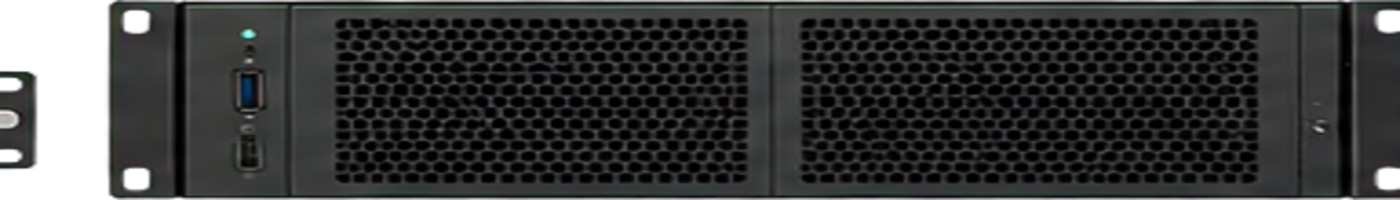
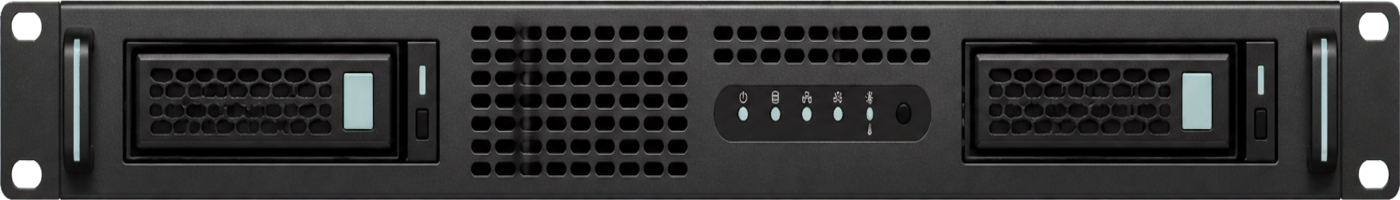
Add UniFi rack profiles and link inventory views

diff --git a/public/app.js b/public/app.js
@@ -14,7 +14,7 @@ const relativeTime = (date) => { const minutes = Math.max(1, Math.round((Date.no
 function toast(message) { const node = $('#toast'); node.textContent = message; node.classList.add('show'); setTimeout(() => node.classList.remove('show'), 2500); }
 function deviceHealth(device) { return ['online', 'degraded', 'offline'].includes(device.healthStatus) ? device.healthStatus : 'unknown'; }
 function serviceSummary(device) { const services = (snapshot.services || []).filter((service) => service.deviceId === device.id && service.status !== 'ignored'); if (!services.length) return 'No services recorded'; const ports = [...new Set(services.map((service) => Number(service.port)).filter(Number.isInteger))].sort((a, b) => a - b); return `${services.length} service${services.length === 1 ? '' : 's'} · ${ports.slice(0, 3).join(', ')}${ports.length > 3 ? '…' : ''}`; }
-const PROFILE_ASSETS = { 'generic-1u': 'rack-generic-1u.png', 'dell-server-1u': 'rack-dell-1u.png', 'hpe-server-1u': 'rack-hpe-1u.png', 'lenovo-server-1u': 'rack-lenovo-1u.png', 'generic-2u': 'rack-generic-2u.png', 'unifi-switch-24': 'rack-unifi-switch-24.png', 'cisco-switch-24': 'rack-cisco-switch-24.png', 'switch-24': 'rack-switch-24.png', 'switch-48': 'rack-switch-48.png', router: 'rack-router.png', 'mikrotik-router': 'rack-mikrotik-router.png', 'nas-2u': 'rack-nas-2u.png', 'synology-nas-2u': 'rack-synology-nas-2u.png', 'ups-2u': 'rack-ups-2u.png', 'apc-ups-2u': 'rack-apc-ups-2u.png', 'patch-panel-24': 'patch-panel-24.png', 'patch-panel-48': 'patch-panel-48.png', 'appliance-1u': 'rack-appliance-1u.png', 'server-1u': 'rack-generic-1u.png', 'server-2u': 'rack-generic-2u.png', firewall: 'rack-router.png', nas: 'rack-nas-2u.png', appliance: 'rack-appliance-1u.png', server: 'rack-generic-1u.png', switch: 'rack-switch-24.png', ups: 'rack-ups-2u.png', 'patch-panel': 'patch-panel-24.png', other: 'rack-appliance-1u.png' };
+const PROFILE_ASSETS = { 'generic-1u': 'rack-generic-1u.png', 'dell-server-1u': 'rack-dell-1u.png', 'hpe-server-1u': 'rack-hpe-1u.png', 'lenovo-server-1u': 'rack-lenovo-1u.png', 'generic-2u': 'rack-generic-2u.png', 'unifi-switch-24': 'rack-unifi-switch-24.png', 'unifi-switch-48': 'rack-unifi-switch-48.png', 'unifi-udm-pro': 'rack-unifi-udm-pro.png', 'unifi-uxg-pro': 'rack-unifi-uxg-pro.png', 'cisco-switch-24': 'rack-cisco-switch-24.png', 'switch-24': 'rack-switch-24.png', 'switch-48': 'rack-switch-48.png', router: 'rack-router.png', 'mikrotik-router': 'rack-mikrotik-router.png', 'nas-2u': 'rack-nas-2u.png', 'synology-nas-2u': 'rack-synology-nas-2u.png', 'ups-2u': 'rack-ups-2u.png', 'apc-ups-2u': 'rack-apc-ups-2u.png', 'patch-panel-24': 'patch-panel-24.png', 'patch-panel-48': 'patch-panel-48.png', 'appliance-1u': 'rack-appliance-1u.png', 'server-1u': 'rack-generic-1u.png', 'server-2u': 'rack-generic-2u.png', firewall: 'rack-router.png', nas: 'rack-nas-2u.png', appliance: 'rack-appliance-1u.png', server: 'rack-generic-1u.png', switch: 'rack-switch-24.png', ups: 'rack-ups-2u.png', 'patch-panel': 'patch-panel-24.png', other: 'rack-appliance-1u.png' };
 function profileAsset(device) { const known = PROFILE_ASSETS[device.visualProfile] || PROFILE_ASSETS[device.deviceType]; const profile = known || ((device.role || '').toLowerCase().includes('router') ? 'rack-router.png' : 'rack-generic-1u.png'); return `/assets/${profile}`; }
 function toggleTheme() { const theme = document.documentElement.dataset.theme === 'dark' ? 'light' : 'dark'; document.documentElement.dataset.theme = theme; localStorage.setItem('lantern-theme', theme); $('#theme-toggle').textContent = theme === 'dark' ? '☀' : '☾'; }
 function render() {
@@ -245,14 +245,17 @@ function renderDevices() {
   if (site) { const prior = selectedSite; site.innerHTML = `<option value="all">All sites</option>${snapshot.sites.map((item) => `<option value="${item.id}">${escapeHtml(item.name)}</option>`).join('')}`; site.value = prior; }
   const visible = snapshot.devices.filter((device) => { const rack = snapshot.racks.find((item) => item.id === device.rackId); const rackSite = rack?.siteId || ''; const haystack = `${device.name} ${device.role} ${device.address?.ip || ''} ${device.address?.hostname || ''} ${device.host?.name || ''}`.toLowerCase(); return (type === 'all' || (device.deviceType || 'other') === type) && (selectedSite === 'all' || rackSite === selectedSite) && (!query || haystack.includes(query)); });
   body.innerHTML = visible.length ? visible.map((device) => { const rack = snapshot.racks.find((item) => item.id === device.rackId); const host = snapshot.devices.find((item) => item.id === device.parentDeviceId); const services = snapshot.services.filter((service) => service.deviceId === device.id && service.status !== 'ignored').length; return `<tr><td><button class="device-table-link" data-id="${device.id}"><i class="health-dot ${deviceHealth(device)}"></i><strong>${escapeHtml(device.name)}</strong><small>${escapeHtml(device.role || device.description || 'Unassigned')}</small></button></td><td><span class="device-type-pill">${escapeHtml(device.deviceType || 'other')}</span></td><td>${host ? `<button class="inline-link" data-id="${host.id}">${escapeHtml(host.name)}</button>` : '<span class="muted">Physical host</span>'}</td><td>${device.address ? `<button class="inline-link network-ip-link" data-network-id="${device.address.networkId}">${escapeHtml(device.address.ip)}</button><small>${escapeHtml(device.address.hostname || 'No hostname')}</small>` : '<span class="muted">No IP assigned</span>'}</td><td>${rack ? `<button class="inline-link rack-device-link" data-view-link="racks">${escapeHtml(rack.name)} · U${device.rackUnit || '—'}</button>` : '<span class="muted">Not in rack</span>'}</td><td><span class="health-label"><i class="health-dot ${deviceHealth(device)}"></i>${escapeHtml(deviceHealth(device))}</span><small>${services} service${services === 1 ? '' : 's'}</small></td><td><button class="button secondary edit-device-page" data-id="${device.id}">Edit</button></td></tr>`; }).join('') : '<tr><td colspan="7"><div class="empty">No devices match these filters.</div></td></tr>';
-  setTimeout(() => document.querySelectorAll('#unplaced-devices .unplaced-row').forEach((row) => { const device = snapshot.devices.find((item) => item.id === row.dataset.deviceId); if (['vm', 'container'].includes(device?.deviceType)) row.hidden = true; }), 0);
-  body.querySelectorAll('.device-table-link').forEach((button) => button.addEventListener('click', () => openDevicePageDetail(button.dataset.id))); body.querySelectorAll('.edit-device-page').forEach((button) => button.addEventListener('click', () => openResourceModal('device', snapshot.devices.find((item) => item.id === button.dataset.id)))); body.querySelectorAll('.inline-link[data-id]').forEach((button) => button.addEventListener('click', () => openDevicePageDetail(button.dataset.id))); body.querySelectorAll('.network-ip-link').forEach((button) => button.addEventListener('click', () => { showView('ipam'); selectNetwork(button.dataset.networkId); })); body.querySelectorAll('.rack-device-link').forEach((button) => button.addEventListener('click', () => showView('racks')));
+  setTimeout(updateUnplacedDevices, 0);
+  body.querySelectorAll('.device-table-link').forEach((button) => button.addEventListener('click', () => openDevicePageDetail(button.dataset.id))); body.querySelectorAll('.edit-device-page').forEach((button) => button.addEventListener('click', () => openResourceModal('device', snapshot.devices.find((item) => item.id === button.dataset.id)))); body.querySelectorAll('.inline-link[data-id]').forEach((button) => button.addEventListener('click', () => openDevicePageDetail(button.dataset.id))); body.querySelectorAll('.network-ip-link').forEach((button) => button.addEventListener('click', () => { showView('ipam'); selectNetwork(button.dataset.networkId); })); body.querySelectorAll('.rack-device-link').forEach((button) => button.addEventListener('click', () => focusRack(button.dataset.rackId)));
 }
 function openDevicePageDetail(id) { const device = snapshot.devices.find((item) => item.id === id); const panel = $('#device-page-detail'); if (!device || !panel) return; const children = snapshot.devices.filter((item) => item.parentDeviceId === id); const services = snapshot.services.filter((item) => item.deviceId === id && item.status !== 'ignored'); panel.hidden = false; panel.innerHTML = `<div class="device-detail-heading"><div><p class="eyebrow accent">DEVICE DETAIL</p><h3><i class="health-dot ${deviceHealth(device)}"></i>${escapeHtml(device.name)}</h3><small>${escapeHtml(device.address?.ip || 'No IP')} · ${escapeHtml(device.deviceType || 'other')} · ${escapeHtml(deviceHealth(device))}</small></div><div class="service-actions"><button class="button secondary" id="edit-page-device">Edit</button><button class="text-button" id="close-page-device">Close ×</button></div></div><div class="device-service-list">${children.map((item) => `<div class="device-service-item"><strong>${escapeHtml(item.name)}</strong><small>${escapeHtml(item.deviceType)} · ${escapeHtml(item.address?.ip || 'No IP')}</small></div>`).join('') || '<div class="empty">No hosted VMs or containers.</div>'}${services.map((item) => `<div class="device-service-item"><strong>${escapeHtml(item.icon || '◇')} ${escapeHtml(item.name)}</strong><small>${item.protocol.toUpperCase()} ${item.port} · ${escapeHtml(serviceHealth(item))}</small></div>`).join('')}</div>`; $('#close-page-device').addEventListener('click', () => { panel.hidden = true; }); $('#edit-page-device').addEventListener('click', () => openResourceModal('device', device)); }
+function focusRack(rackId) { showView('racks'); if (rackId) { $('#rack-site-filter').value = 'all'; $('#rack-site-filter').dataset.selected = 'all'; render(); setTimeout(() => document.querySelector(`.rack-face[data-rack-id="${rackId}"]`)?.scrollIntoView({ behavior: 'smooth', block: 'center' }), 0); } }
+function updateUnplacedDevices() { document.querySelectorAll('#unplaced-devices .unplaced-row').forEach((row) => { const device = snapshot.devices.find((item) => item.id === row.dataset.deviceId); if (!device) return; const isVirtual = ['vm', 'container'].includes(device.deviceType); row.draggable = !isVirtual; const place = row.querySelector('.place-device'); if (isVirtual && place) { place.remove(); const button = document.createElement('button'); button.className = 'button secondary view-unplaced-device'; button.textContent = 'View device'; button.addEventListener('click', () => { showView('devices'); openDevicePageDetail(device.id); }); row.appendChild(button); } }); bindRackLinks(); }
+function bindRackLinks() { document.querySelectorAll('#rack-grid .rack-unit.device').forEach((unit) => unit.addEventListener('click', (event) => { if (event.target.closest('button')) return; showView('devices'); openDevicePageDetail(unit.dataset.deviceId); })); document.querySelectorAll('.rack-device-link').forEach((button) => button.addEventListener('click', () => { const rack = snapshot.racks.find((item) => button.textContent.trim().startsWith(item.name)); focusRack(rack?.id); })); }
 function renderOverviewLayout() { const overview = $('#view-overview'); const side = overview?.querySelector('.overview-side'); const activity = $('#changes')?.closest('.activity-panel'); const network = $('#networks')?.closest('.network-panel'); const detail = $('#device-detail'); if (!overview || !side || !activity || !network || !detail) return; const status = document.querySelector('#overview-service-status') || Object.assign(document.createElement('section'), { id: 'overview-service-status', className: 'panel overview-service-status' }); if (!status.parentElement) status.innerHTML = '<div class="panel-heading"><div><p class="eyebrow">SERVICE STATUS</p><h3>Watching services</h3></div><button class="text-button" data-view-link="services">Open Services →</button></div><div id="overview-services-list"></div>'; if (activity.parentElement === side) side.removeChild(activity); side.insertBefore(status, side.firstChild); side.insertBefore(network, status.nextSibling); overview.appendChild(detail); overview.appendChild(activity); }
 function renderOverviewServices() { const target = $('#overview-services-list'); if (!target || !snapshot) return; const services = snapshot.services.filter((item) => item.overviewVisible && item.status !== 'ignored'); target.innerHTML = services.length ? services.map((service) => `<div class="overview-service-row"><span class="service-icon">${escapeHtml(service.icon || '◇')}</span><div><strong>${escapeHtml(service.name)}</strong><small>${escapeHtml(service.deviceName)} · ${service.protocol.toUpperCase()} ${service.port}</small></div><i class="health-dot ${serviceHealth(service)}"></i></div>`).join('') : '<div class="empty">No services selected for the overview.</div>'; }
 function renderServices() { renderServicesLegacy(); document.querySelectorAll('.service-row').forEach((row) => { const edit = row.querySelector('.edit-service'); const service = snapshot.services.find((item) => item.id === edit?.dataset.id); if (!service || row.querySelector('.toggle-overview-service')) return; const button = document.createElement('button'); button.className = 'button secondary toggle-overview-service'; button.textContent = service.overviewVisible ? 'Hide overview' : 'Show overview'; button.addEventListener('click', async () => { const response = await fetch(`/api/services/${service.id}`, { method: 'PATCH', headers: { 'content-type': 'application/json' }, body: JSON.stringify({ name: service.name, deviceId: service.deviceId, port: service.port, protocol: service.protocol, url: service.url || '', description: service.description || '', enabled: service.enabled !== false, overviewVisible: !service.overviewVisible }) }); if (response.ok) { await refresh(); toast(service.overviewVisible ? 'Service shown on overview.' : 'Service hidden from overview.'); } }); row.querySelector('.service-actions')?.prepend(button); }); renderOverviewServices(); }
 function enhanceDeviceEditor(device = null) { const typeSelect = document.querySelector('#resource-fields [name="deviceType"]'); if (!typeSelect) return; [['vm', 'Virtual machine'], ['container', 'Docker container']].forEach(([value, label]) => { if (!typeSelect.querySelector(`option[value="${value}"]`)) typeSelect.insertAdjacentHTML('beforeend', `<option value="${value}">${label}</option>`); }); if (!document.querySelector('#resource-fields [name="parentDeviceId"]')) { const hostOptions = snapshot.devices.filter((item) => item.id !== device?.id && !['vm', 'container'].includes(item.deviceType)).map((item) => `<option value="${item.id}">${escapeHtml(item.name)}</option>`).join(''); typeSelect.closest('.form-label')?.insertAdjacentHTML('afterend', `<label class="form-label">Hosted by<select name="parentDeviceId"><option value="">No host</option>${hostOptions}</select></label>`); } if (device?.parentDeviceId) document.querySelector('#resource-fields [name="parentDeviceId"]').value = device.parentDeviceId; }
-function addCatalogueProfileOptions() { const select = document.querySelector('#resource-fields [name="visualProfile"]'); if (!select) return; const options = [['dell-server-1u', 'Dell-style 1U server'], ['hpe-server-1u', 'HPE-style 1U server'], ['lenovo-server-1u', 'Lenovo-style 1U server'], ['mikrotik-router', 'MikroTik-style router'], ['synology-nas-2u', 'Synology-style 2U NAS'], ['apc-ups-2u', 'APC-style 2U UPS']]; options.forEach(([value, label]) => { if (!select.querySelector(`option[value="${value}"]`)) select.insertAdjacentHTML('beforeend', `<option value="${value}">${label}</option>`); }); }
+function addCatalogueProfileOptions() { const select = document.querySelector('#resource-fields [name="visualProfile"]'); if (!select) return; const options = [['dell-server-1u', 'Dell-style 1U server'], ['hpe-server-1u', 'HPE-style 1U server'], ['lenovo-server-1u', 'Lenovo-style 1U server'], ['unifi-switch-48', 'Ubiquiti UniFi 48-port switch'], ['unifi-udm-pro', 'Ubiquiti UniFi Dream Machine Pro'], ['unifi-uxg-pro', 'Ubiquiti UniFi UXG Pro gateway'], ['mikrotik-router', 'MikroTik-style router'], ['synology-nas-2u', 'Synology-style 2U NAS'], ['apc-ups-2u', 'APC-style 2U UPS']]; options.forEach(([value, label]) => { if (!select.querySelector(`option[value="${value}"]`)) select.insertAdjacentHTML('beforeend', `<option value="${value}">${label}</option>`); }); }
 document.addEventListener('error', (event) => { const image = event.target; if (image?.tagName === 'IMG' && !image.dataset.fallback) { image.dataset.fallback = 'true'; image.src = '/assets/rack-generic-1u.png'; } }, true);
 ensureDevicesView();

diff --git a/src/profiles.js b/src/profiles.js
@@ -5,6 +5,9 @@ export const DEVICE_PROFILES = [
   { id: 'lenovo-server-1u', label: 'Lenovo-style 1U server', brand: 'Lenovo', asset: 'rack-lenovo-1u.png', height: 1, rackMount: true, passive: false },
   { id: 'generic-2u', label: 'Generic 2U server', brand: 'Generic', asset: 'rack-generic-2u.png', height: 2, rackMount: true, passive: false },
   { id: 'unifi-switch-24', label: 'Ubiquiti UniFi 24-port switch', brand: 'Ubiquiti', asset: 'rack-unifi-switch-24.png', height: 1, rackMount: true, passive: false },
+  { id: 'unifi-switch-48', label: 'Ubiquiti UniFi 48-port switch', brand: 'Ubiquiti', asset: 'rack-unifi-switch-48.png', height: 1, rackMount: true, passive: false },
+  { id: 'unifi-udm-pro', label: 'Ubiquiti UniFi Dream Machine Pro', brand: 'Ubiquiti', asset: 'rack-unifi-udm-pro.png', height: 1, rackMount: true, passive: false },
+  { id: 'unifi-uxg-pro', label: 'Ubiquiti UniFi UXG Pro gateway', brand: 'Ubiquiti', asset: 'rack-unifi-uxg-pro.png', height: 1, rackMount: true, passive: false },
   { id: 'cisco-switch-24', label: 'Cisco-style 24-port switch', brand: 'Cisco', asset: 'rack-cisco-switch-24.png', height: 1, rackMount: true, passive: false },
   { id: 'switch-24', label: 'Generic 24-port switch', brand: 'Generic', asset: 'rack-switch-24.png', height: 1, rackMount: true, passive: false },
   { id: 'switch-48', label: 'Generic 48-port switch', brand: 'Generic', asset: 'rack-switch-48.png', height: 1, rackMount: true, passive: false },

diff --git a/test/profiles.test.js b/test/profiles.test.js
@@ -8,6 +8,9 @@ test('exposes the supported generic device profiles', () => {
   assert.ok(validProfile('unifi-switch-24'));
   assert.ok(validProfile('dell-server-1u'));
   assert.ok(validProfile('synology-nas-2u'));
+  assert.ok(validProfile('unifi-switch-48'));
+  assert.ok(validProfile('unifi-udm-pro'));
+  assert.ok(validProfile('unifi-uxg-pro'));
   assert.equal(validProfile('cisco-9000'), false);
   assert.ok(rackProfiles().every((profile) => profile.rackMount));
 });
